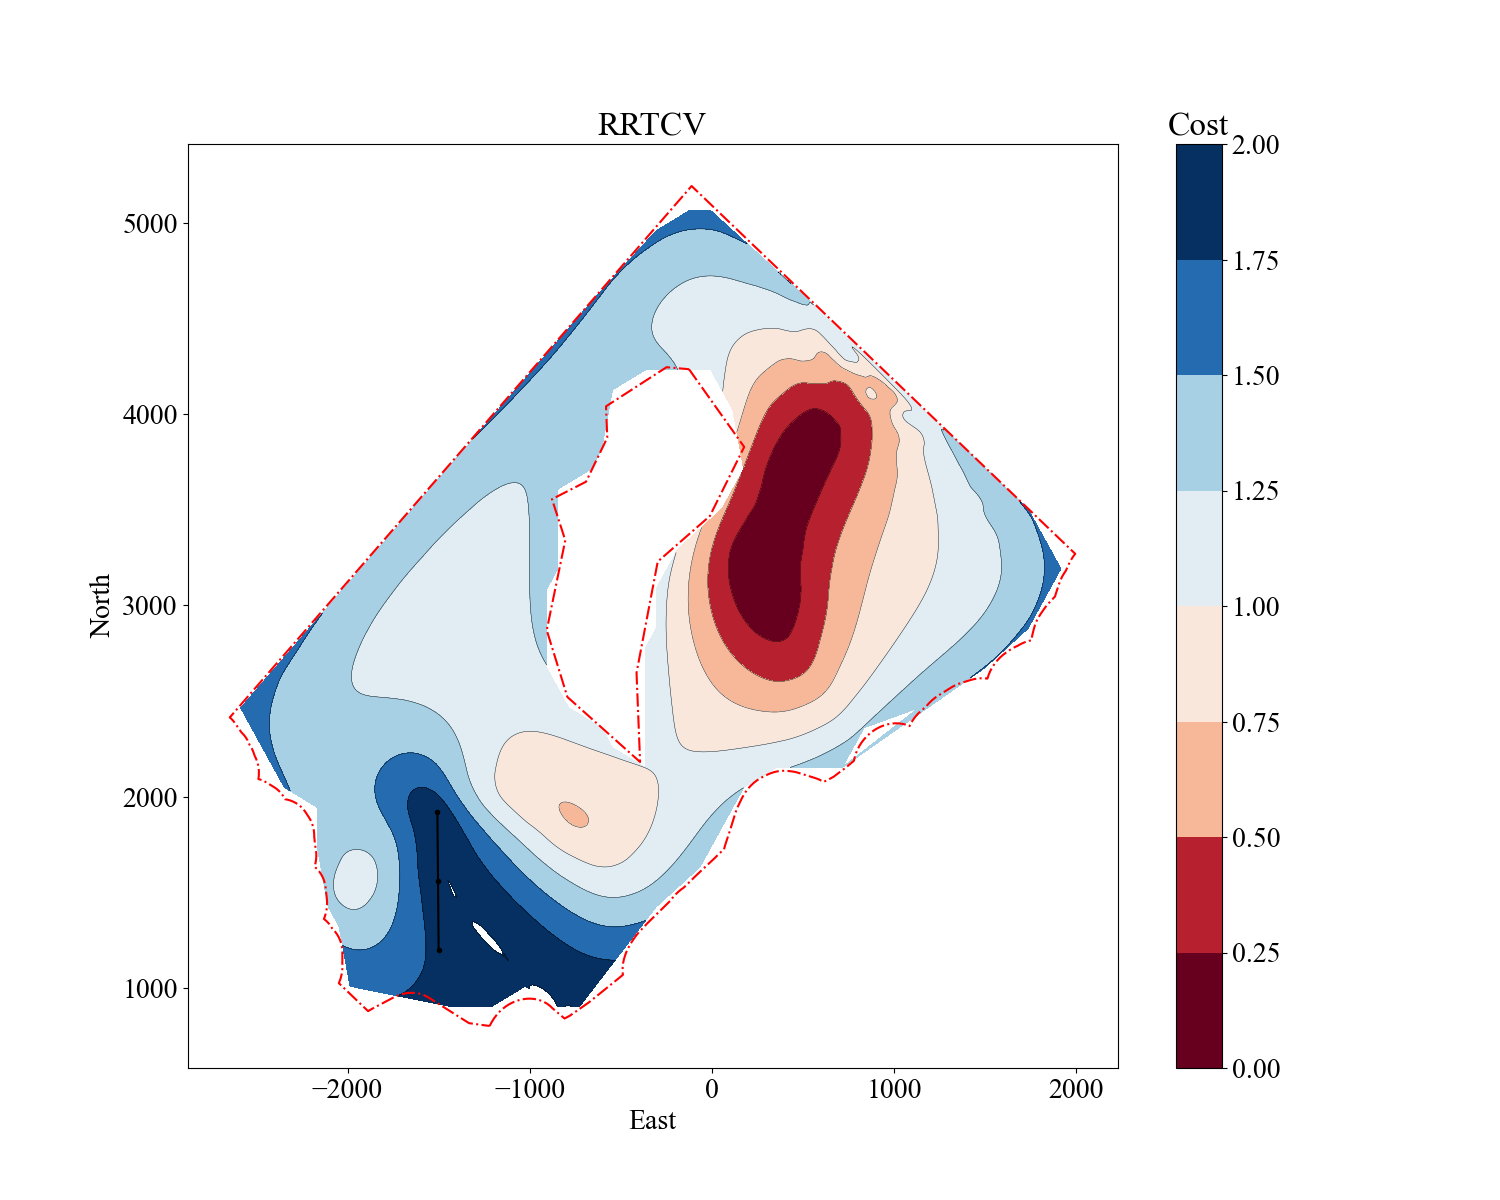
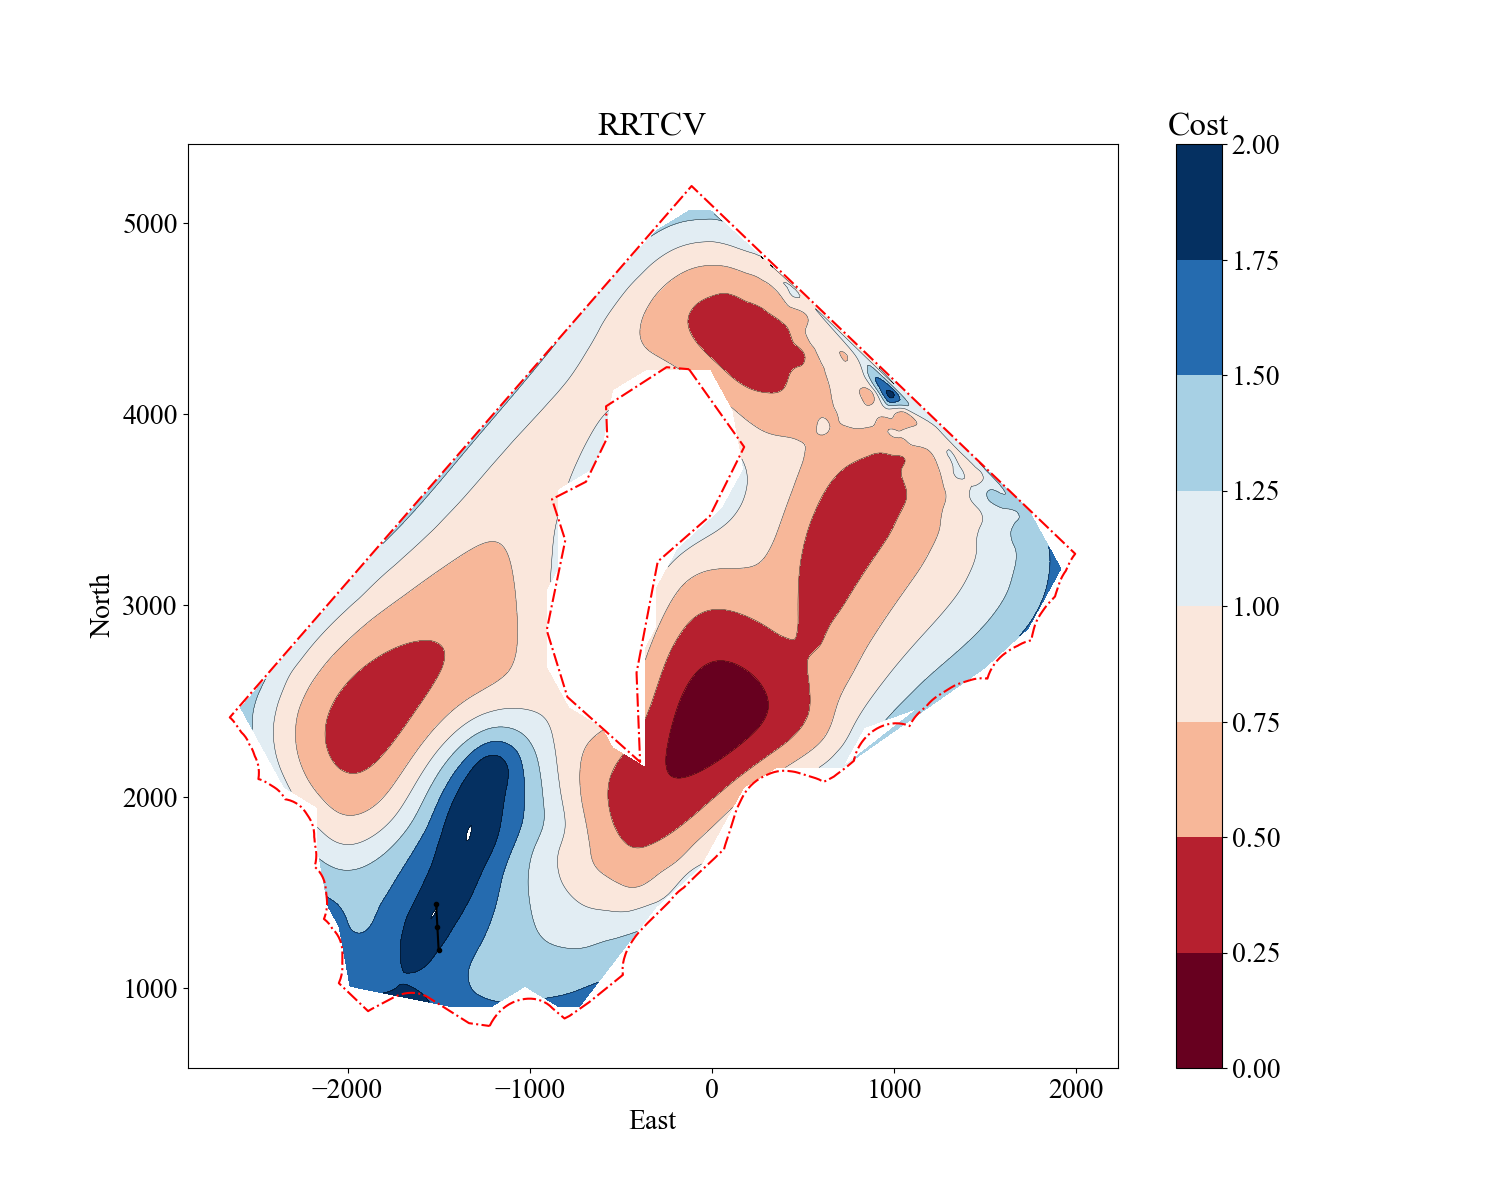
update_simulation_steup

Changed region(s): [[0.1533, 0.1542, 0.7053, 0.8633]]

diff --git a/Publication/src/Simulators/Simulator.py b/Publication/src/Simulators/Simulator.py
@@ -1,7 +1,8 @@
 """
-Simulator handles the simulation task.
-- store essential data during simulation.
-- accept different parameters governing the simulation.
+Simulator generates the simulation result using three different methodolgies.
+- EIBV dominant
+- IVR dominant
+- Equal weights
 """
 from Planner.Planner import Planner
 from Simulators.CTD import CTD
@@ -20,42 +21,45 @@ class Simulator:
     """
     Simulator
     """
-    def __init__(self, weight_eibv: float = 1., weight_ivr: float = 1.,
-                 case: str = "Equal", debug: bool = False) -> None:
+    def __init__(self, debug: bool = False) -> None:
         """
         Set up the planning strategies and the AUV simulator for the operation.
         """
-        # s0: load parameters
-        self.weight_eibv = weight_eibv
-        self.weight_ivr = weight_ivr
-        self.case = case
         self.debug = debug
 
-        # s1: set up planner.
-        self.loc_start = np.array([1200, -1500])
-        self.planner = Planner(self.loc_start)
+        # s0: load parameters
+        self.config = Config()
 
-        # s2: set up ground truth
+        # s1: set the starting location.
+        self.loc_start = np.array([1200, -1500])
+
+        # s2: set up ground truth.
         self.ctd = CTD(self.loc_start)
 
-        # s4: set up data storage
-        self.log = Log(ctd=self.ctd)
+    def set_weights(self, weight_eibv: float = 1., weight_ivr: float = 1.):
+        if weight_eibv > weight_ivr:
+            self.case = "EIBV"
+        elif weight_eibv < weight_ivr:
+            self.case = "IVR"
+        else:
+            self.case = "EQUAL"
 
+        # s0: set the planner according to their weight set.
+        self.planner = Planner(self.loc_start)
+        self.log = Log(ctd=self.ctd)
         self.rrtstar = self.planner.get_rrtstarcv()
         self.cv = self.rrtstar.get_CostValley()
-        self.cv.set_weight_eibv(self.weight_eibv)
-        self.cv.set_weight_ivr(self.weight_ivr)
-        self.cv.update_cost_valley()  # update right after the weights are refreshed.
+        self.cv.set_weight_eibv(weight_eibv)
+        self.cv.set_weight_ivr(weight_ivr)
+        self.cv.update_cost_valley()
         self.grf = self.cv.get_grf_model()
 
         if self.debug:
-
             self.field = self.cv.get_field()
             self.grid = self.field.get_grid()
-            self.config = Config()
             self.polygon_border = self.config.get_polygon_border()
             self.polygon_obstacle = self.config.get_polygon_obstacle()
-            self.figpath = os.getcwd() + "/../../fig/Sim_2DNidelva/Simulator/"
+            self.figpath = os.getcwd() + "/../../fig/Sim_2DNidelva/Simulator/" + self.case + "/"
             checkfolder(self.figpath)
 
             plt.figure(figsize=(15, 12))
@@ -65,26 +69,26 @@ class Simulator:
             plt.plot(self.polygon_obstacle[:, 1], self.polygon_obstacle[:, 0], 'r-.')
             plt.xlabel("East")
             plt.ylabel("North")
+            plt.savefig(self.figpath + "Prior_" + self.case + ".png")
             plt.show()
 
             plt.figure(figsize=(15, 12))
             plotf_vector(self.grid[:, 1], self.grid[:, 0], self.ctd.get_ground_truth(), xlabel='East', ylabel='North',
-                         title='GroundTruth', cbar_title="Salinity", cmap=get_cmap("RdBu", 10), vmin=10, vmax=33, stepsize=1.5)
+                         title='GroundTruth', cbar_title="Salinity", cmap=get_cmap("RdBu", 10), vmin=10, vmax=33,
+                         stepsize=1.5)
             plt.plot(self.polygon_border[:, 1], self.polygon_border[:, 0], 'r-.')
             plt.plot(self.polygon_obstacle[:, 1], self.polygon_obstacle[:, 0], 'r-.')
             plt.xlabel("East")
             plt.ylabel("North")
+            plt.savefig(self.figpath + "Truth_" + self.case + ".png")
             plt.show()
-
-        # s5: append data
-        self.log.append_log(self.cv.get_grf_model())  # append data to storage
 
     def run_simulator(self, num_steps: int = 5) -> tuple:
         """
         Run the autonomous operation according to Sense, Plan, Act philosophy.
         """
-        self.trajectory = np.empty([0, 2])
-        self.trajectory = np.append(self.trajectory, self.loc_start.reshape(1, -1), axis=0)
+        trajectory = np.empty([0, 2])
+        trajectory = np.append(trajectory, self.loc_start.reshape(1, -1), axis=0)
 
         t1 = time()
 
@@ -114,11 +118,11 @@ class Simulator:
             """ plotting seciton. """
             if self.debug:
                 plt.figure(figsize=(15, 12))
-                cv = self.cv.get_cost_field()
-                plotf_vector(self.grid[:, 1], self.grid[:, 0], cv, xlabel='East', ylabel='North', title='RRTCV',
+                cost_valley = self.cv.get_cost_field()
+                plotf_vector(self.grid[:, 1], self.grid[:, 0], cost_valley, xlabel='East', ylabel='North', title='RRTCV',
                              cbar_title="Cost", cmap=get_cmap("RdBu", 10), vmin=0, vmax=2.2, stepsize=.25)
-                if len(self.trajectory) > 0:
-                    plt.plot(self.trajectory[:, 1], self.trajectory[:, 0], 'k.-')
+                if len(trajectory) > 0:
+                    plt.plot(trajectory[:, 1], trajectory[:, 0], 'k.-')
                 plt.plot(self.polygon_border[:, 1], self.polygon_border[:, 0], 'r-.')
                 plt.plot(self.polygon_obstacle[:, 1], self.polygon_obstacle[:, 0], 'r-.')
                 plt.xlabel("East")
@@ -138,7 +142,7 @@ class Simulator:
 
             # p1: parallel move AUV to the first location
             wp_now = self.planner.get_current_waypoint()
-            self.trajectory = np.append(self.trajectory, wp_now.reshape(1, -1), axis=0)
+            trajectory = np.append(trajectory, wp_now.reshape(1, -1), axis=0)
 
             # s2: obtain CTD data
             ctd_data = self.ctd.get_ctd_data(wp_now)
@@ -157,12 +161,16 @@ class Simulator:
         # plt.title("RMSE in")
         # plt.show()
 
-        return self.trajectory, self.log
+        return trajectory, self.log
 
 
 if __name__ == "__main__":
-    s = Simulator(weight_eibv=1.9, weight_ivr=.1, case="equal", debug=False)
-    t, l = s.run_simulator()
-    # s.run_simulator()
+    s = Simulator(debug=True)
+    s.set_weights(1.9, .1)
+    t1, l1 = s.run_simulator(num_steps=10)
+    s.set_weights(1., 1.)
+    t2, l2 = s.run_simulator(num_steps=10)
+    s.set_weights(.1, 1.9)
+    t3, l3 = s.run_simulator(num_steps=10)
 
-
+    t1, l1

diff --git a/Publication/src/run_cv.py b/Publication/src/run_cv.py
@@ -1,0 +1,66 @@
+"""
+Simulator replicate study for EIBV case
+"""
+from Simulators.Simulator import Simulator
+from Config import Config
+from joblib import Parallel, delayed
+from time import time
+import numpy as np
+
+config = Config()
+num_steps = config.get_num_steps()
+num_replicates = config.get_num_replicates()
+num_cores = config.get_num_cores()
+
+"""
+Return values are tuple and hereby need careful check with smaller steps 
+of replicates to extract the result correctly. 
+"""
+
+
+def run_replicates(weight_eibv=1., weight_ivr=1.):
+    s = Simulator()
+    steps = num_steps * np.ones(num_replicates).astype(int)
+
+    if weight_eibv > weight_ivr:
+        case = "EIBV"
+    elif weight_eibv < weight_ivr:
+        case = "IVR"
+    else:
+        case = "EQUAL"
+
+    s.set_weights(weight_eibv, weight_ivr)
+
+    res = Parallel(n_jobs=num_cores)(delayed(s.run_simulator)(step) for step in steps)  # The return values are tuple
+
+    traj_sim = np.empty([0, num_steps+1, 2])
+    ibv = np.empty([0, num_steps+1])
+    rmse = np.empty([0, num_steps+1])
+    vr = np.empty([0, num_steps+1])
+
+    for i in range(len(res)):
+        traj_sim = np.append(traj_sim, res[i][0].reshape(1, num_steps+1, 2), axis=0)
+        rmse = np.append(rmse, np.array(res[i][1].rmse).reshape(1, -1), axis=0)
+        ibv = np.append(ibv, np.array(res[i][1].ibv).reshape(1, -1), axis=0)
+        vr = np.append(vr, np.array(res[i][1].vr).reshape(1, -1), axis=0)
+
+    # t1 = time()
+    # for i in range(num_replicates):
+    #     t2 = time()
+    #     print("Replicate: ", i, " takes ", t2 - t1, " seconds.")
+    #     t1 = time()
+    #     traj = run_simulator()
+    #     traj_sim = np.append(traj_sim, traj.reshape(1, num_steps+1, 2), axis=0)
+
+    np.save("npy/CV/" + case + ".npy", traj_sim)
+    np.save("npy/CV/" + case + "_ibv.npy", ibv)
+    np.save("npy/CV/" + case + "_vr.npy", vr)
+    np.save("npy/CV/" + case + "_rmse.npy", rmse)
+    return 0
+
+
+if __name__ == "__main__":
+    run_replicates(1.9, .1)
+    run_replicates(1., 1.)
+    run_replicates(.1, 1.9)
+

diff --git a/Publication/src/Planner/RRTSCV/RRTStarCV.py b/Publication/src/Planner/RRTSCV/RRTStarCV.py
@@ -46,7 +46,7 @@ class RRTStarCV:
         self.__distance_trajectory = .0  # distance along the trajectory.
         self.__goal_sampling_rate = .01
         self.__max_expansion_iteration = 1700  # TODO: to run simulation and see if it is able to converage
-        self.__stepsize = self.__field.get_neighbour_distance() * 3  # hard-coded values, need to be checked.
+        self.__stepsize = self.__field.get_neighbour_distance() * 1  # hard-coded values, need to be checked.
         self.__home_radius = self.__stepsize * .8
         self.__rrtstar_neighbour_radius = self.__stepsize * 1.12
 

diff --git a/Publication/src/Config.py b/Publication/src/Config.py
@@ -37,9 +37,9 @@ class Config:
         self.__loc_start = np.array([x, y])
 
         """ Default simulation parameter seteup. """
-        self.__num_steps = 80  # number of steps.
-        self.__num_replicates = 50  # number of replicates
-        self.__num_cores = 15  # number of cores to use
+        self.__num_steps = 4  # number of steps.
+        self.__num_replicates = 3  # number of replicates
+        self.__num_cores = 3  # number of cores to use
 
     @staticmethod
     def wgs2xy(value: np.ndarray) -> np.ndarray:

diff --git a/Publication/src/Simulators/Log.py b/Publication/src/Simulators/Log.py
@@ -21,7 +21,6 @@ class Log:
         sigma_diag = np.diag(grf.get_covariance_matrix())
 
         self.ibv.append(self.get_ibv(mu, sigma_diag, threshold))
-        # self.rmse.append(np.sum((self.mu_truth - mu)**2) / len(mu))
         self.rmse.append(mean_squared_error(self.mu_truth, mu, squared=False))
         self.vr.append(np.sum(sigma_diag))
 
